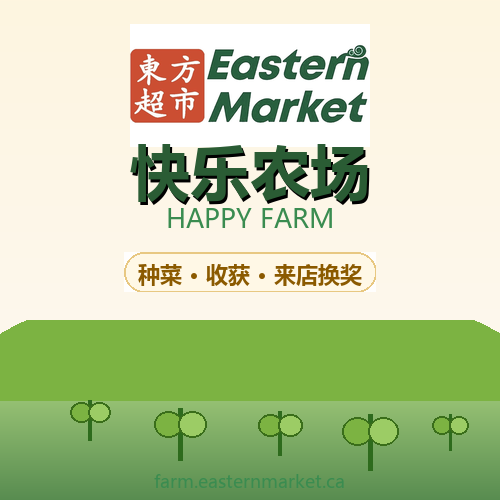
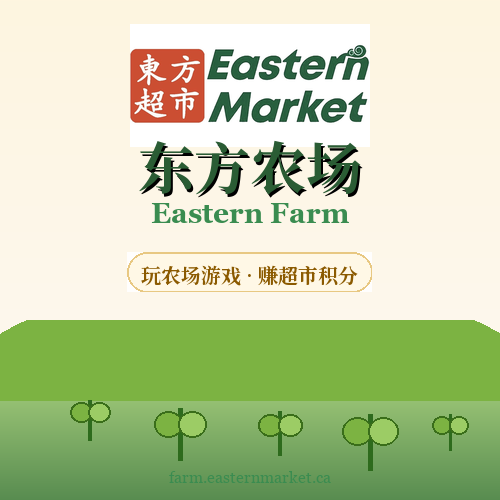
审查修复：分享卡去掉快乐农场，开屏 Eastern Farm 加大
微信预览图和晒农场木牌改为东方农场。开屏英文副标对齐 04c。水井略放大。

Changed region(s): [[0.24, 0.27, 0.75, 0.45], [0.24, 0.51, 0.75, 0.6], [0.3, 0.93, 0.69, 0.99]]

diff --git a/src/js/share.js b/src/js/share.js
@@ -124,7 +124,7 @@
 
       // ---- Wooden sign over the illustration sky: GAME NAME hero ----
       const signCX = W / 2;
-      const sgW = 320, sgH = 96, sgX = signCX - sgW / 2, sgY = 96;
+      const sgW = 328, sgH = 118, sgX = signCX - sgW / 2, sgY = 96;
       // hanging ropes
       ctx.strokeStyle = '#6b4a2a'; ctx.lineWidth = 5; ctx.lineCap = 'round';
       ctx.beginPath(); ctx.moveTo(sgX + 44, sgY - 14); ctx.lineTo(sgX + 60, sgY + 10);
@@ -147,19 +147,11 @@
       ctx.save();
       ctx.shadowColor = 'rgba(60,38,18,0.6)'; ctx.shadowOffsetY = 2;
       ctx.fillStyle = '#fff3dd'; ctx.font = '700 40px ' + FD;
-      ctx.fillText('东方农场', signCX, sgY + 52);
+      ctx.fillText('东方农场', signCX, sgY + 50);
       ctx.restore();
-      // HAPPY FARM — letter-spaced
-      (function () {
-        const txt = 'EASTERN FARM', ls = 2.2;
-        ctx.font = '700 13px ' + EN; ctx.fillStyle = '#ffd9a0';
-        let total = -ls;
-        for (const ch of txt) total += ctx.measureText(ch).width + ls;
-        let x = signCX - total / 2;
-        ctx.textAlign = 'left';
-        for (const ch of txt) { ctx.fillText(ch, x, sgY + 74); x += ctx.measureText(ch).width + ls; }
-        ctx.textAlign = 'center';
-      })();
+      ctx.font = '700 18px ' + EN;
+      ctx.fillStyle = '#ffe7b8';
+      ctx.fillText('Eastern Farm', signCX, sgY + 86);
 
       // ================= Cream content panel =================
       const md = (Farm.fbAuth && Farm.fbAuth.memberDoc) || {};

diff --git a/src/js/mapview-iso.js b/src/js/mapview-iso.js
@@ -130,7 +130,7 @@
     greenhouse: { img: 'greenhouse', w: 2, h: 2, sc: 2.4, zh: '温室', en: 'Greenhouse', cost: 600 },
     coop: { img: 'coop', w: 2, h: 2, sc: 2.3, zh: '鸡舍', en: 'Coop', cost: 450 },
     stall: { img: 'stall', w: 2, h: 2, sc: 2.8, zh: '超市摊位', en: 'Stall', cost: 320 },
-    well: { img: 'well', w: 1, h: 1, sc: 2.85, zh: '水井', en: 'Well', cost: 180 },
+    well: { img: 'well', w: 1, h: 1, sc: 3.15, zh: '水井', en: 'Well', cost: 180 },
     tree: { img: 'tree', w: 1, h: 1, sc: 2.2, zh: '树', en: 'Tree', cost: 90 },
     bush: { img: 'deco_bush', w: 1, h: 1, sc: 1.7, zh: '花丛', en: 'Flowers', cost: 40 },
     lantern: { img: 'deco_lantern', w: 1, h: 1, sc: 2.6, zh: '灯笼', en: 'Lantern', cost: 70 },

diff --git a/src/css/style.css b/src/css/style.css
@@ -2950,12 +2950,12 @@ body.modal-open #bottombar { display: none; }
 }
 .splash-title-en {
   font-family: var(--font-en);
-  font-size: 16px;
+  font-size: 22px;
   font-weight: 600;
-  letter-spacing: 0.16em;
+  letter-spacing: 0.12em;
   color: #fff4d2;
   text-transform: none;
-  margin-top: 10px;
+  margin-top: 18px;
   text-shadow: 0 1px 0 rgba(30, 20, 8, 0.5), 0 2px 10px rgba(20, 14, 8, 0.55);
   animation: splashSlideUp 0.6s ease 0.5s both;
 }
@@ -2981,7 +2981,7 @@ body.modal-open #bottombar { display: none; }
   text-transform: uppercase;
   color: #fff4d2;
   opacity: 1;
-  margin-top: 10px;
+  margin-top: 16px;
   text-shadow: 0 1px 0 rgba(30, 20, 8, 0.5), 0 2px 10px rgba(20, 14, 8, 0.55);
 }
 @keyframes splashSlideUp {

diff --git a/scripts/make_share_card.py b/scripts/make_share_card.py
@@ -54,44 +54,52 @@ try:
 except Exception as e:
     print(f"logo load failed: {e}", file=sys.stderr)
 
-# ---- Game title "快乐农场" + "Happy Farm" ----
-def load_font(size, bold=False):
-    # Try Windows Chinese fonts in order of preference
+def load_font(size, bold=False, serif=False):
+    if serif:
+        for f in ['C:/Windows/Fonts/NotoSerifSC-VF.ttf', 'C:/Windows/Fonts/msyhbd.ttc']:
+            try:
+                font = ImageFont.truetype(f, size)
+                if hasattr(font, 'set_variation_by_axes'):
+                    try:
+                        font.set_variation_by_axes([700 if bold else 560])
+                    except Exception:
+                        pass
+                return font
+            except Exception:
+                continue
     candidates = [
+        'C:/Windows/Fonts/georgiab.ttf' if (not serif and bold) else None,
+        'C:/Windows/Fonts/georgia.ttf' if not serif else None,
         'C:/Windows/Fonts/msyhbd.ttc' if bold else 'C:/Windows/Fonts/msyh.ttc',
         'C:/Windows/Fonts/simhei.ttf',
-        'C:/Windows/Fonts/simsun.ttc',
-        'arial.ttf',
     ]
     for f in candidates:
+        if not f:
+            continue
         try:
             return ImageFont.truetype(f, size)
         except Exception:
             continue
     return ImageFont.load_default()
 
-title_font = load_font(60, bold=True)
-en_font = load_font(26, bold=False)
-tag_font = load_font(22, bold=True)
-url_font = load_font(18, bold=False)
+title_font = load_font(56, bold=True, serif=True)
+en_font = load_font(28, bold=True)
+tag_font = load_font(20, bold=True, serif=True)
+url_font = load_font(16, bold=False)
 
-# Centered title with subtle shadow
-title_zh = '快乐农场'
+title_zh = '东方农场'
 bbox = draw.textbbox((0, 0), title_zh, font=title_font)
 tw = bbox[2] - bbox[0]
 th = bbox[3] - bbox[1]
 title_x = (W - tw) // 2
-title_y = 130
-# Shadow
+title_y = 124
 draw.text((title_x + 2, title_y + 3), title_zh, font=title_font, fill=(0, 0, 0, 80))
-# Main
 draw.text((title_x, title_y), title_zh, font=title_font, fill='#2a5c34')
 
-# English subtitle
-en_text = 'HAPPY FARM'
+en_text = 'Eastern Farm'
 bbox2 = draw.textbbox((0, 0), en_text, font=en_font)
 ew = bbox2[2] - bbox2[0]
-draw.text(((W - ew) // 2, title_y + th + 12), en_text, font=en_font, fill='#3a8c50')
+draw.text(((W - ew) // 2, title_y + th + 18), en_text, font=en_font, fill='#3a8c50')
 
 # ---- Crop sprout illustrations ----
 # Just a simple sprout shape in green, repeated
@@ -119,7 +127,7 @@ draw_sprout(370, 470, scale=1.4)
 draw_sprout(450, 450, scale=0.9)
 
 # ---- Bottom tagline ----
-tagline = '种菜 · 收获 · 来店换奖'
+tagline = '玩农场游戏 · 赚超市积分'
 bbox3 = draw.textbbox((0, 0), tagline, font=tag_font)
 tgw = bbox3[2] - bbox3[0]
 # Background pill for readability

diff --git a/docs/WECHAT-SHARE.md b/docs/WECHAT-SHARE.md
@@ -9,7 +9,7 @@
 ## 🎯 当前在用版本（2026-05-26）
 
 ```
-🎁 东方超市·快乐农场 | 登录有奖！
+🎁 东方农场 | 登录有奖！
 玩农场游戏、赚超市积分
 免费玩，无下载，天天收获！
 https://farm.easternmarket.ca
@@ -19,7 +19,7 @@ https://farm.easternmarket.ca
 
 ## 自动预览（微信抓的内容）
 
-- **标题**：🎁 东方超市·快乐农场 | 登录有奖！
+- **标题**：🎁 东方农场 | 登录有奖！
 - **副标题**：玩农场游戏、赚超市积分。免费玩，无下载，天天收获！
 - **缩略图**：`src/assets/images/share-card.png` (500×500)
 - **域名**：farm.easternmarket.ca

diff --git a/docs/plans/2026-08-16-full-audit.md b/docs/plans/2026-08-16-full-audit.md
@@ -1,0 +1,12 @@
+# 农场全面审查 2026-08-16
+
+对照：Chris 审美（油画黄昏、字能读、按钮高档、乡路禁建）、keyart、现网 `ada4d74`。
+
+## 验收
+
+1. [x] 开屏：暖金不发乌，登录/逛逛字清；Eastern Farm 加大拉开。
+2. [x] 新号场景：无白线圈、路不被水盖、整块田。
+3. [x] 乡路禁建已在现网；本轮未改判定。
+4. [x] 分享卡/晒农场木牌去掉「快乐农场」。
+5. [x] `node --check` share.js / mapview-iso.js；截图 `_verify-audit-splash.png` / `_verify-audit-farm.png`。
+6. [x] 老存档坐标不动，不改东点经济。

diff --git a/docs/IMPROVEMENT-LOG.md b/docs/IMPROVEMENT-LOG.md
@@ -725,3 +725,10 @@ Chris：「水塘叠在土路上了，马路应该不允许建造」。
 
 Chris：「入口首页色调暗、按键看不清、不够高档」。
 暮色纱从近黑改成暖金薄纱；主钮描金漆绿白字；游客钮瓷白深字。登录/逛逛 ID 不动。
+
+### 全面审查（2026-08-16）
+
+- 微信 `share-card.png` 仍写「快乐农场 / HAPPY FARM」→ 东方农场 + Eastern Farm。
+- 晒农场木牌英文加大并加高木牌。
+- 开屏 Eastern Farm 16→22px，与中文拉开。
+- 水井略放大。未改经济、未搬老号。
